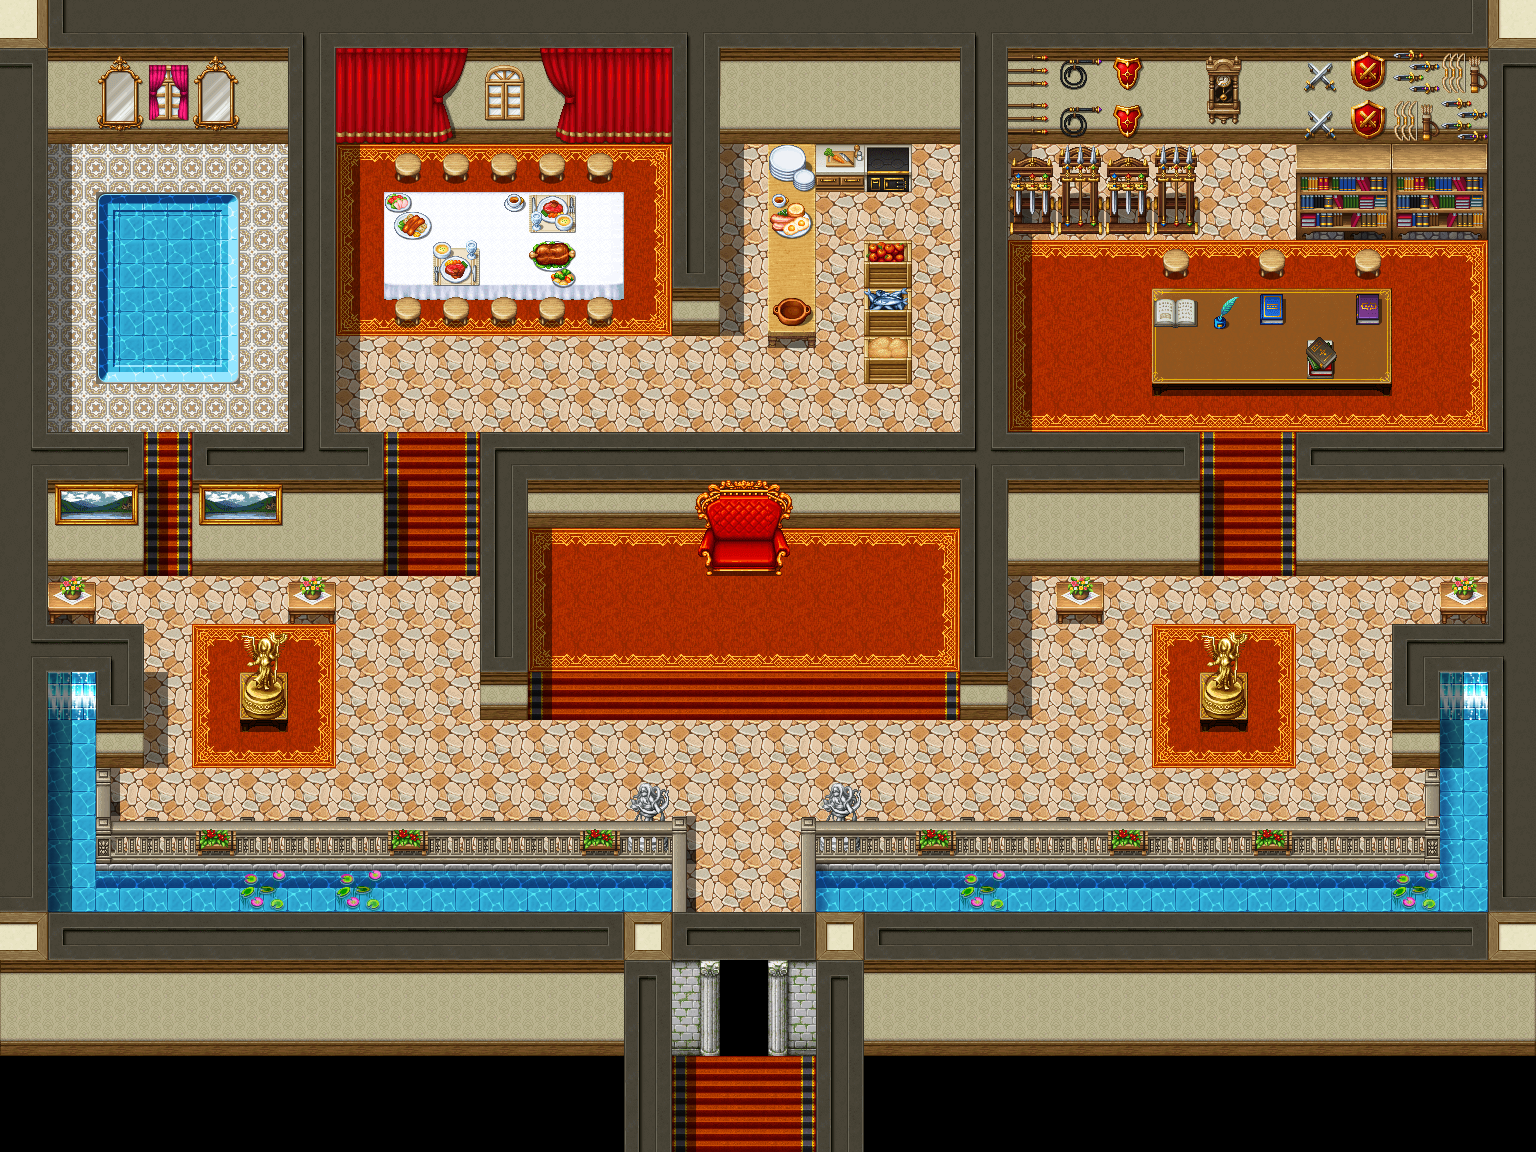
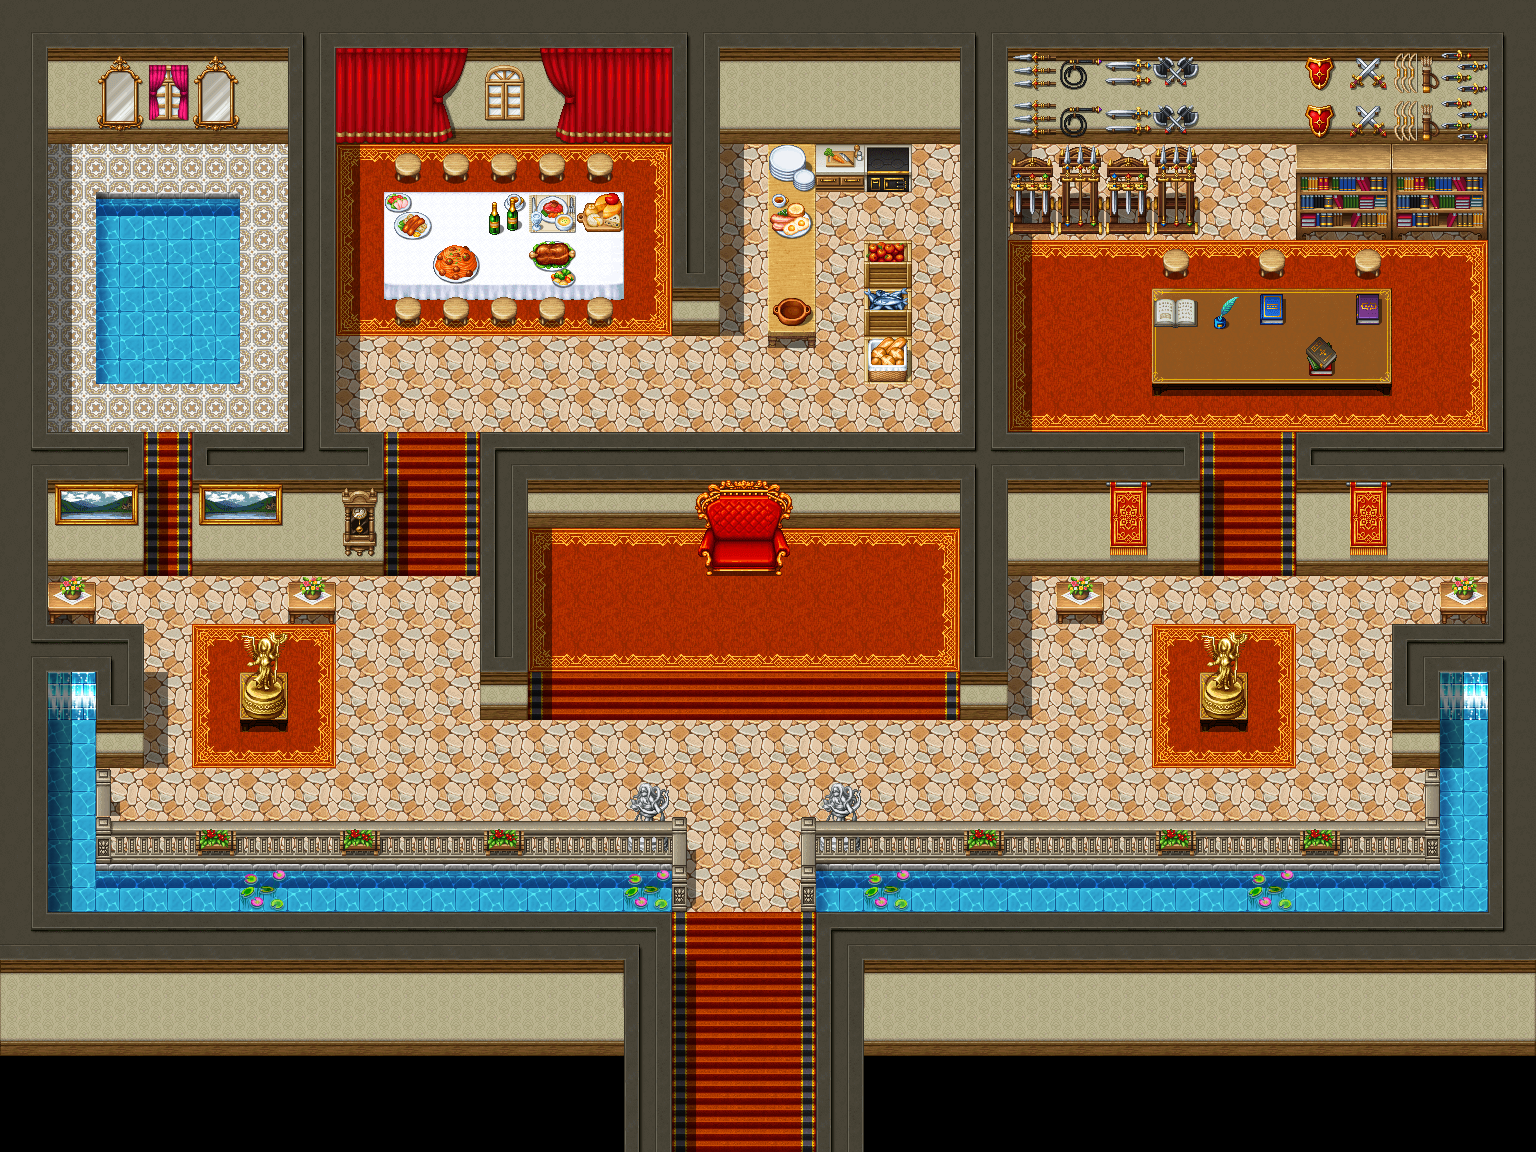
in this version, all the map has been upload. and the chat function is relised perfect.

diff --git a/sources/default.py b/sources/default.py
@@ -1,45 +1,59 @@
 from sources import tools
 
-SCREEN_WIDTH = 1080# 1080
-SCREEN_HEIGHT = 720 # 720
+SCREEN_WIDTH = 1080  # 1080
+SCREEN_HEIGHT = 720  # 720
 HERO_SPEED = 3
-HERO_SIZE =32
+HERO_SIZE = 32
 HERO_SPEED = 3
+ITEM_LIST = []
+# info :  the picture of npc gesture
+info = [[{'path': './data/roles/guard/2.png', 'location': (53, 0, 37, 48), 'color': (0, 0, 0), 'width': HERO_SIZE,
+          'height': HERO_SIZE},
+         {'path': './data/roles/guard/2.png', 'location': (3, 0, 37, 48), 'color': (0, 0, 0), 'width': HERO_SIZE,
+          'height': HERO_SIZE},
+         {'path': './data/roles/guard/2.png', 'location': (101, 0, 37, 48), 'color': (0, 0, 0), 'width': HERO_SIZE,
+          'height': HERO_SIZE}],
+        [{'path': './data/roles/prince/2.png', 'location': (53, 0, 37, 48), 'color': (0, 0, 0), 'width': HERO_SIZE,
+          'height': HERO_SIZE},
+         {'path': './data/roles/prince/2.png', 'location': (3, 0, 37, 48), 'color': (0, 0, 0), 'width': HERO_SIZE,
+          'height': HERO_SIZE},
+         {'path': './data/roles/prince/2.png', 'location': (101, 0, 37, 48), 'color': (0, 0, 0), 'width': HERO_SIZE,
+          'height': HERO_SIZE}],
+        [{'path': './data/roles/mage/2.png', 'location': (53, 96, 37, 48), 'color': (0, 0, 0), 'width': HERO_SIZE,
+          'height': HERO_SIZE},
+         {'path': './data/roles/mage/2.png', 'location': (3, 96, 37, 48), 'color': (0, 0, 0), 'width': HERO_SIZE,
+          'height': HERO_SIZE},
+         {'path': './data/roles/mage/2.png', 'location': (101, 96, 37, 48), 'color': (0, 0, 0), 'width': HERO_SIZE,
+          'height': HERO_SIZE}]
+        ]
 
-info = [[{'path': './data/roles/guard/2.png','location':(53, 0, 37, 48),'color':(0,0,0),'width':HERO_SIZE,'height':HERO_SIZE},
-        {'path': './data/roles/guard/2.png','location':(3, 0, 37, 48),'color':(0,0,0),'width':HERO_SIZE,'height':HERO_SIZE},
-         {'path': './data/roles/guard/2.png','location':(101, 0, 37, 48),'color':(0,0,0),'width':HERO_SIZE,'height':HERO_SIZE}],
-        [{'path': './data/roles/prince/2.png','location':(53, 0, 37, 48),'color':(0,0,0),'width':HERO_SIZE,'height':HERO_SIZE},
-         {'path': './data/roles/prince/2.png','location':(3, 0, 37, 48),'color':(0,0,0),'width':HERO_SIZE,'height':HERO_SIZE},
-         {'path': './data/roles/prince/2.png','location':(101, 0, 37, 48),'color':(0,0,0),'width':HERO_SIZE,'height':HERO_SIZE}]]
-
-
-
-CPT1_PIXIS_X = 64.286
-CPT1_PIXIS_Y = 57.143
+CPT1_PIXIS_X = 33.75
+CPT1_PIXIS_Y = 30
 
 CPT2_PIXIS_X = 33.75
 CPT2_PIXIS_Y = 30
 
-
-CHAT_START_X = 50
+CHAT_START_X = 130
 CHAT_START_Y = 570
 # x = 0.986 47
 # y = 0.877 42
 HUMAN_PICTURE = []
-pict_size = 70
-HUMAN_PICT_WIDTH = 940
-HUMAN_PICT_HEIGHT = 630
-def load_picture() :
-        '''
+pict_size = 70  # The size of profile picture of character
+HUMAN_PICT_WIDTH = 40  # This is the location of character profile picture
+HUMAN_PICT_HEIGHT = 530
+
+HERO_PICT_WIDTH = 40
+HERO_PICT_HEIGHT = 630
+
+
+def load_picture():
+    '''
         this fuction is set for all the profile picture of character
         :return:
         '''
-        HUMAN_PICTURE.append(tools.capture('./data/roles/guard/1.png',0,0,144,144,(0,0,0),pict_size,pict_size))
-        HUMAN_PICTURE.append(tools.capture('./data/roles/prince/1.png',0,0,144,144,(0,0,0),pict_size,pict_size))
-        HUMAN_PICTURE.append(tools.capture('./data/roles/knight/1.png',0,0,144,144,(0,0,0),pict_size,pict_size))
-
-
-
-
-
+    HUMAN_PICTURE.append(tools.capture('./data/roles/guard/1.png', 0, 0, 144, 144, (0, 0, 0), pict_size, pict_size))
+    HUMAN_PICTURE.append(tools.capture('./data/roles/prince/1.png', 0, 0, 144, 144, (0, 0, 0), pict_size, pict_size))
+    HUMAN_PICTURE.append(tools.capture('./data/roles/knight/1.png', 0, 0, 144, 144, (0, 0, 0), pict_size, pict_size))
+    HUMAN_PICTURE.append(tools.capture('./data/roles/mage/1.png', 0, 0, 144, 144, (0, 0, 0), pict_size, pict_size))
+    ITEM_LIST.append(tools.capture2('./data/item/letter.png',110,76,1190,787,800,530))
+    ITEM_LIST.append(tools.capture2('./data/item/stone.png',0,0,1250,717,800,460))

diff --git a/states/chapter_1.py b/states/chapter_1.py
@@ -32,7 +32,7 @@ class Cpt1:
         set up the background of the chapter_1
         :return:
         '''
-        self.image = pygame.image.load('./data/map/chapter_1new.png')
+        self.image = pygame.image.load('./data/map/chapter_1.png')
         self.image = pygame.transform.scale(self.image,(default.SCREEN_WIDTH,default.SCREEN_HEIGHT))
 
         pass
@@ -73,9 +73,9 @@ class Cpt1:
         set up the hero in the chapter_1
         :return:
         '''
-        self.role = roles.Role()
-        self.role.rect.x = 390
-        self.role.rect.y = 625
+        self.role = roles.Role(default.HUMAN_PICTURE[2])
+        self.role.rect.x = 504
+        self.role.rect.y = 649
 
     def Cpt1_play(self):
 
@@ -101,9 +101,14 @@ class Cpt1:
     def draw_chat_board(self,judge,surface,keys):
 
         if judge :
-
-            self.chat.print_mes(self.chat_npc.chat_mes[self.num_mes],surface)
-            surface.blit(self.chat_npc.npc_pit,(default.HUMAN_PICT_WIDTH,default.HUMAN_PICT_HEIGHT))
+            for key,value in self.chat_npc.chat_mes[self.num_mes].items():
+                #670
+                if key == 'Warrior':
+                    default.CHAT_START_Y = 670
+                self.chat.print_mes(self.chat_npc.chat_mes[self.num_mes][key],surface)
+                default.CHAT_START_Y = 570
+            surface.blit(self.chat_npc.npc_pit,(default.HUMAN_PICT_WIDTH,default.HUMAN_PICT_HEIGHT)) # npc
+            surface.blit(self.role.hero_pit,(default.HERO_PICT_WIDTH,default.HERO_PICT_HEIGHT)) #hero
             #print(len(self.chat_npc.chat_mes))
 
 
@@ -139,7 +144,7 @@ class Cpt1:
         self.role.rect.y += self.role.y_vel
 
         self.y_collide()
-        if (self.role.rect.x>500 and self.role.rect.x<540) and self.role.rect.y> 660 :
+        if (self.role.rect.x>500 and self.role.rect.x<540) and self.role.rect.y> 660 : # new chapter judgement
             if self.cpt1_end :
                 self.finish = True
         print(self.role.rect)

diff --git a/sources/tools.py b/sources/tools.py
@@ -15,6 +15,10 @@ class Game :
         # pygame.display.flip()
 
     def update_state(self):
+        '''
+        change chapter
+        :return:
+        '''
         if self.state.finish:
             self.next_state = self.state.next
             self.state.finish = False
@@ -62,6 +66,13 @@ def capture(path,x,y,width,hight,color,real_width,real_heigh) :
     img = pygame.transform.scale(img,(real_width,real_heigh))
     return img
 
+def capture2(path,x,y,width,hight,real_width,real_heigh) :
+    pict = pygame.image.load(path)
+    img = pygame.Surface((width,hight))
+    img.blit(pict,(0,0),(x,y,width,hight))
+    #img.set_colorkey(color)
+    img = pygame.transform.scale(img,(real_width,real_heigh))
+    return img
 def trans_pixis(list,scale_x,scale_y) :
     for item in list:
         item['x'] = int(item['x'] * scale_x)

diff --git a/main.py b/main.py
@@ -1,6 +1,6 @@
 import pygame
 from sources import tools,default
-from states import chapter_1,menu_set,load_window,chapter_2,chapter_3,chapter_4
+from states import chapter_1,menu_set,load_window,chapter_2,chapter_3,chapter_4,chapter_5
 
 def main() :
     '''
@@ -13,7 +13,10 @@ def main() :
                   'load': load_window.Load(),
                   'cpt1': chapter_1.Cpt1(),
                   'cpt2': chapter_2.Cpt2(),
-                  'cpt3': chapter_3.Cpt3()}
+                  'cpt3': chapter_3.Cpt3(),
+                  'cpt4': chapter_4.Cpt4(),
+                  'cpt5': chapter_5.Cpt5(),
+                  }
     game = tools.Game(state_dict,'menu')
     # menu = menu_set.Menu()
     cpt1 = chapter_1.Cpt1()

diff --git a/states/npc.py b/states/npc.py
@@ -12,10 +12,11 @@ class NPC(pygame.sprite.Sprite):
         self.cpt1_mes = load_js.load_map('./states/cpt_1_mes.json')
         self.chat_mes = self.cpt1_mes[self.name]
         self.pre_time = 0
-        #print(self.chat_mes)
+        print(self.chat_mes)
         self.npc_image(self.info)
 
     def npc_image(self,info_path):
+
         self.structure = []
         for info in info_path :
             self.image = tools.capture(info['path'],*info['location'],info['color'],info['width'],info['height'])

diff --git a/states/roles.py b/states/roles.py
@@ -3,11 +3,12 @@ from sources import tools,default
 
 
 class Role(pygame.sprite.Sprite):
-    def __init__(self):
+    def __init__(self,hero_pit):
         pygame.sprite.Sprite.__init__(self)
         self.role_img()
         self.role_velocity()
         self.time_tools()
+        self.hero_pit = hero_pit
 
 
     def role_img(self):
